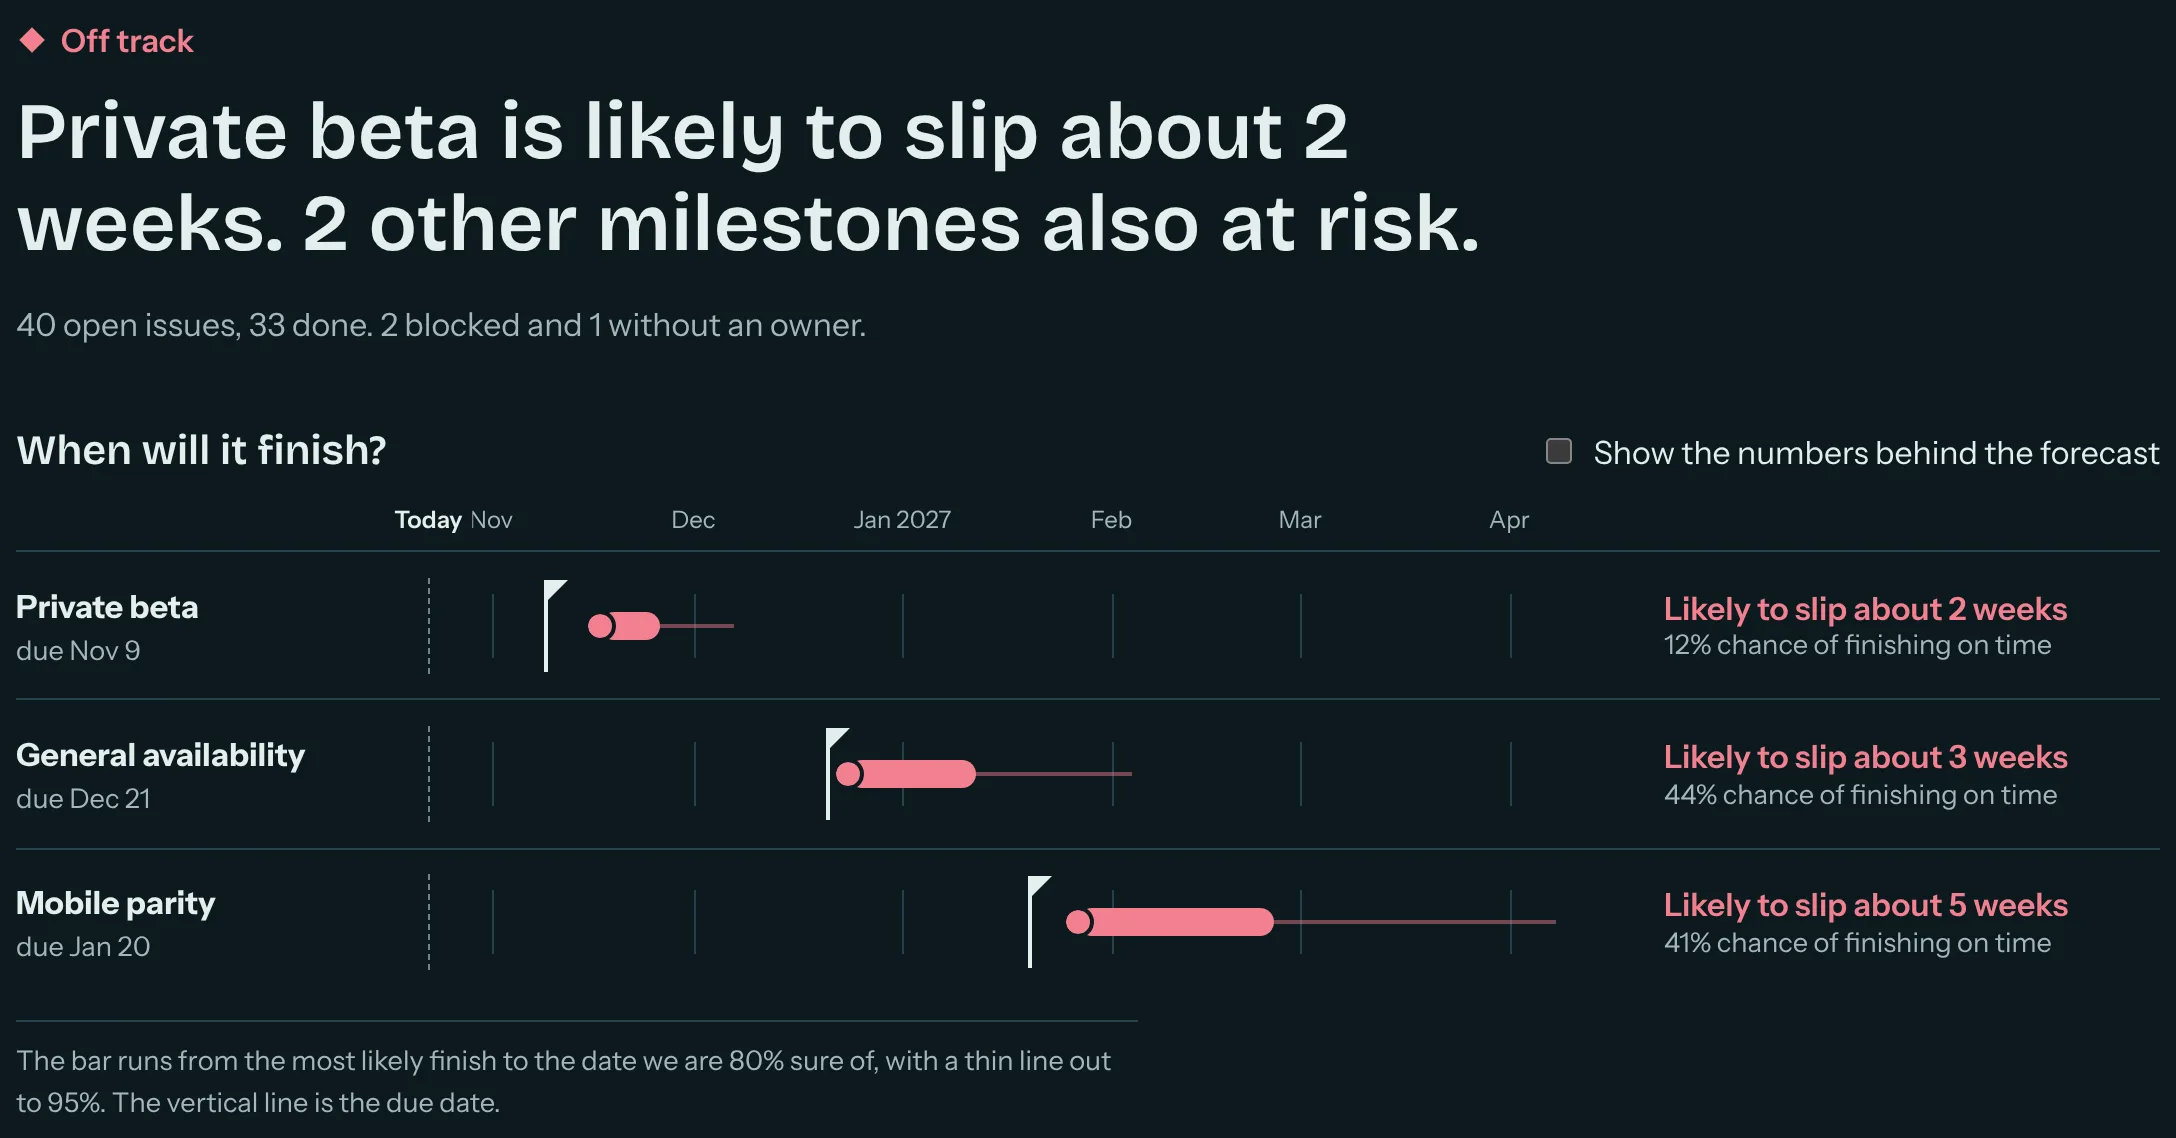
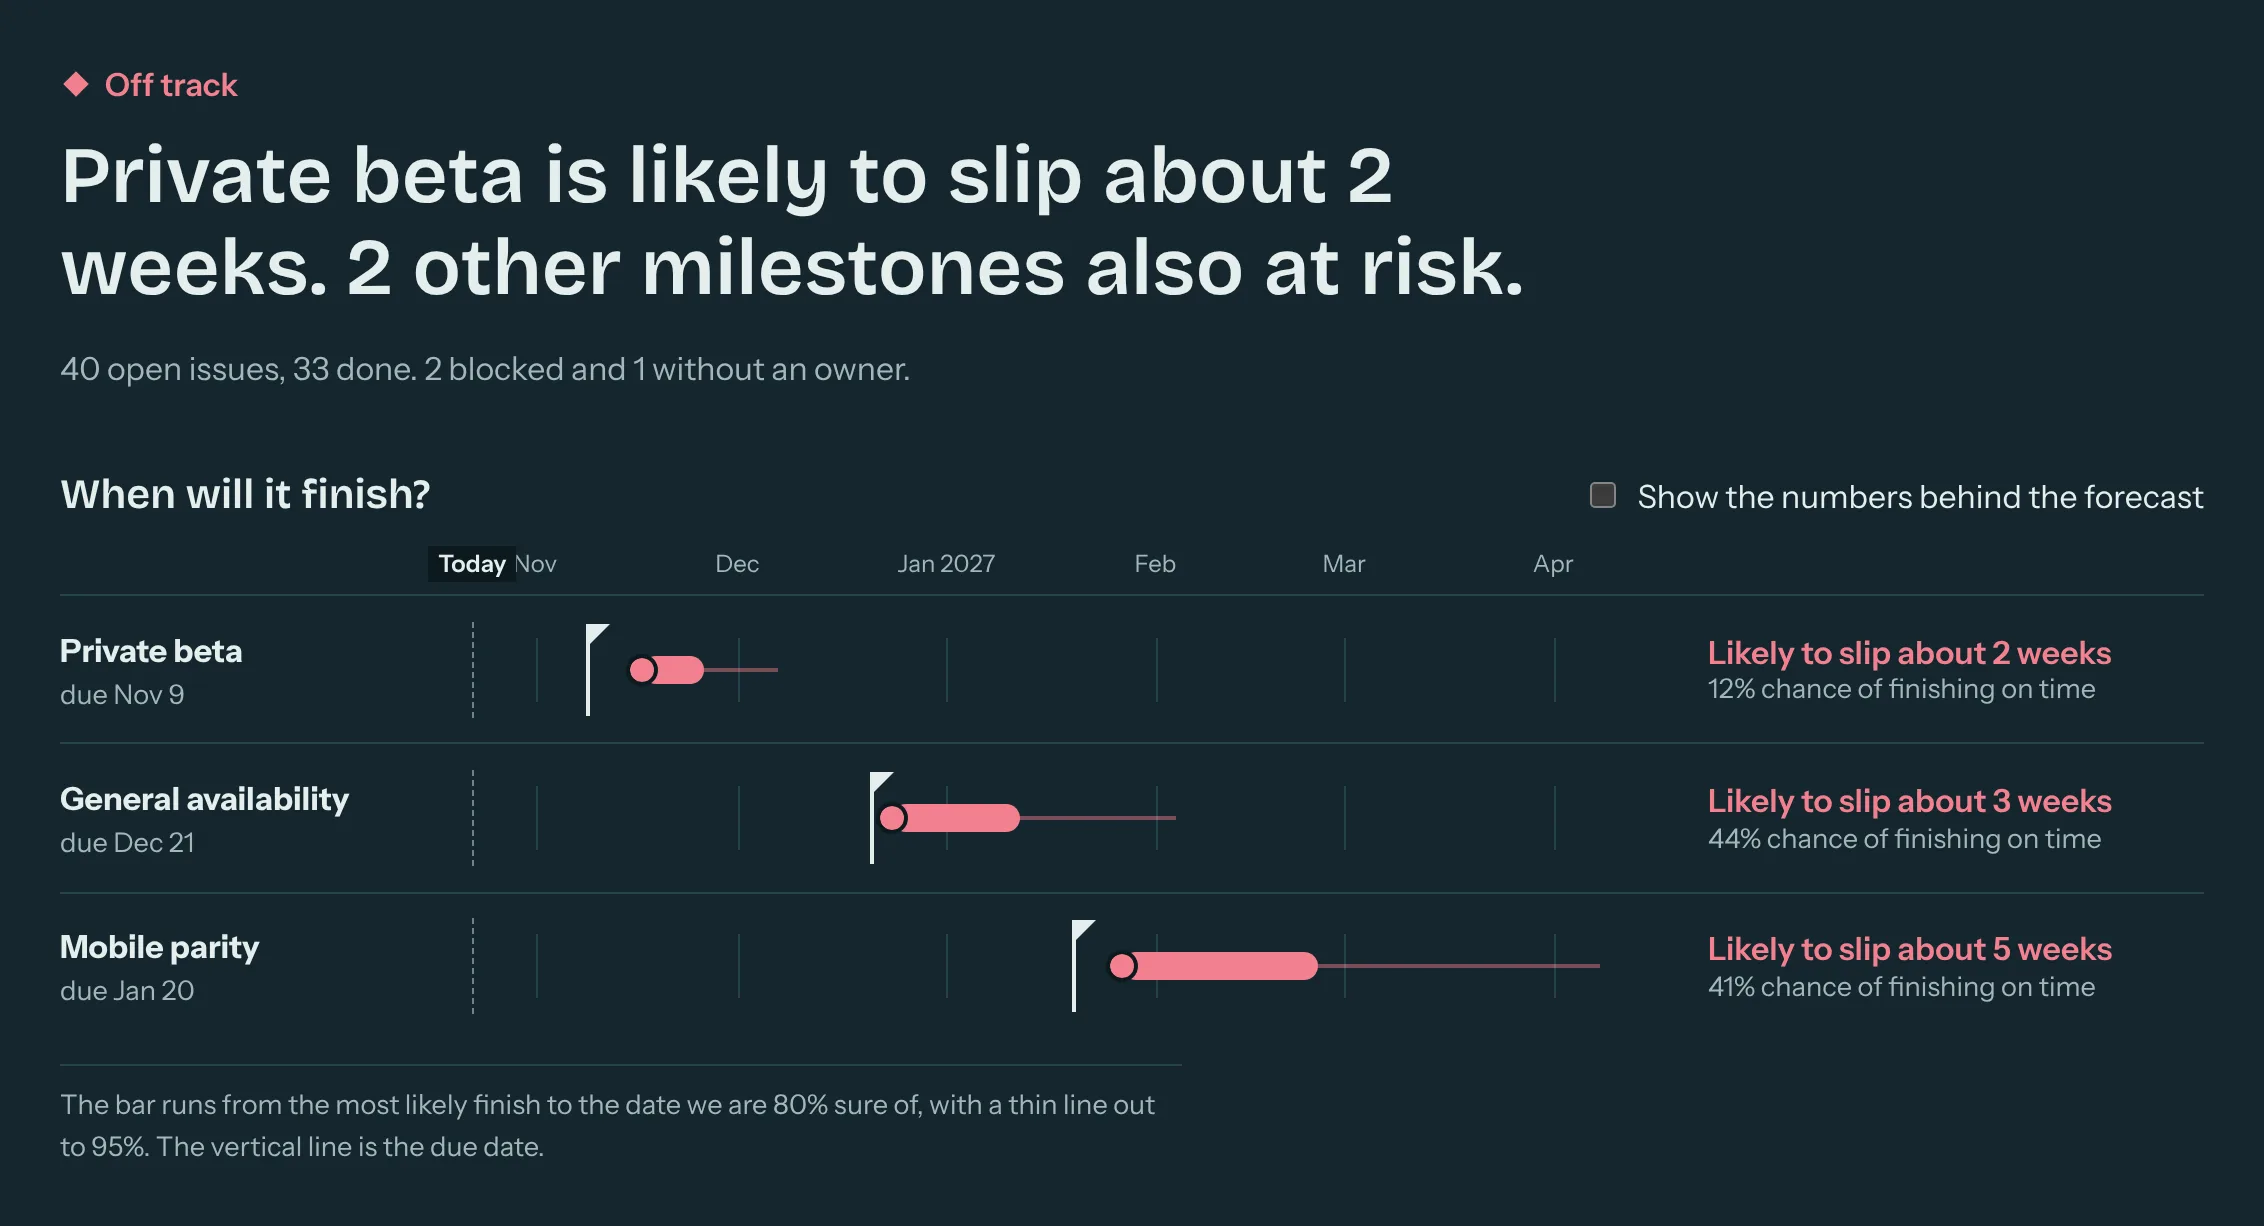
Retake screenshots with margins, top-align hero

diff --git a/site/index.html b/site/index.html
@@ -60,7 +60,8 @@
     @media (max-width: 640px) { header.top nav a:not(:last-child) { display: none; } header.top nav a { margin-left: 0; } }
     nav a:hover { color: var(--ink); text-decoration: underline; }
 
-    .hero { padding: clamp(1.5rem, 4vw, 3.5rem) 0 clamp(2.5rem, 5vw, 4rem); display: grid; gap: 2.5rem; align-items: center; }
+    .hero { padding: clamp(1.5rem, 4vw, 3.5rem) 0 clamp(2.5rem, 5vw, 4rem); display: grid; gap: 2.5rem; align-items: start; }
+    .hero-text { padding-top: clamp(0rem, 2vw, 2rem); }
     .eyebrow { color: var(--calm); font-weight: 600; font-size: 0.95rem; letter-spacing: 0.02em; margin-bottom: 1rem; }
     .hero h1 { font-size: clamp(2.4rem, 6.4vw, 4.4rem); font-weight: 650; max-width: 16ch; }
     .hero p.sub { margin-top: 1.4rem; max-width: 52ch; font-size: clamp(1.1rem, 2vw, 1.3rem); color: var(--ink-2); }
@@ -154,7 +155,7 @@
         <div class="frame"><div class="bar" aria-hidden="true"><i></i><i></i><i></i><span>localhost:8000</span></div>
           <picture>
             <source srcset="img/hero-dark.webp" media="(prefers-color-scheme: dark)" />
-            <img src="img/hero-light.webp" width="1088" height="569" alt="The PGM Lens overview for a demo program: the verdict 'Off track', then a forecast timeline for three milestones, each with a bar from the most likely finish to the date we are 80% sure of, a due-date flag and a plain verdict such as 'Likely to slip about 2 weeks'." />
+            <img src="img/hero-light.webp" width="1132" height="613" alt="The PGM Lens overview for a demo program: the verdict 'Off track', then a forecast timeline for three milestones, each with a bar from the most likely finish to the date we are 80% sure of, a due-date flag and a plain verdict such as 'Likely to slip about 2 weeks'." />
           </picture>
         </div>
       </figure>
@@ -162,7 +163,7 @@
           <div class="frame"><div class="bar" aria-hidden="true"><i></i><i></i><i></i><span>localhost:8000</span></div>
             <picture>
               <source srcset="img/attention-dark.webp" media="(prefers-color-scheme: dark)" />
-              <img src="img/attention-light.webp" width="1072" height="420" alt="The risk list: each risk has a severity, a plain title, a one-sentence explanation and the issue keys involved." />
+              <img src="img/attention-light.webp" width="1132" height="479" alt="The risk list: each risk has a severity, a plain title, a one-sentence explanation and the issue keys involved." />
             </picture>
           </div>
         </figure>
@@ -184,7 +185,7 @@
             <div class="frame"><div class="bar" aria-hidden="true"><i></i><i></i><i></i><span>localhost:8000</span></div>
               <picture>
                 <source srcset="img/numbers-dark.webp" media="(prefers-color-scheme: dark)" />
-                <img src="img/numbers-light.webp" loading="lazy" width="1072" height="488" alt="The same timeline with the numbers behind each forecast switched on: the chance of finishing on time and the dates at 50%, 80% and 95% confidence." />
+                <img src="img/numbers-light.webp" loading="lazy" width="1132" height="546" alt="The same timeline with the numbers behind each forecast switched on: the chance of finishing on time and the dates at 50%, 80% and 95% confidence." />
               </picture>
             </div>
           </figure>
@@ -199,7 +200,7 @@
             <div class="frame"><div class="bar" aria-hidden="true"><i></i><i></i><i></i><span>localhost:8000</span></div>
               <picture>
                 <source srcset="img/attention-dark.webp" media="(prefers-color-scheme: dark)" />
-                <img src="img/attention-light.webp" loading="lazy" width="1072" height="420" alt="A list of risks, each with a severity, a title, a one-sentence explanation and the issue keys involved." />
+                <img src="img/attention-light.webp" loading="lazy" width="1132" height="479" alt="A list of risks, each with a severity, a title, a one-sentence explanation and the issue keys involved." />
               </picture>
             </div>
           </figure>
@@ -214,7 +215,7 @@
             <div class="frame"><div class="bar" aria-hidden="true"><i></i><i></i><i></i><span>localhost:8000</span></div>
               <picture>
                 <source srcset="img/deps-dark.webp" media="(prefers-color-scheme: dark)" />
-                <img src="img/deps-light.webp" loading="lazy" width="1070" height="250" alt="A dependency map of issues connected by blocking links, with the critical path outlined." />
+                <img src="img/deps-light.webp" loading="lazy" width="1070" height="270" alt="A dependency map of issues connected by blocking links, with the critical path outlined." />
               </picture>
             </div>
           </figure>
